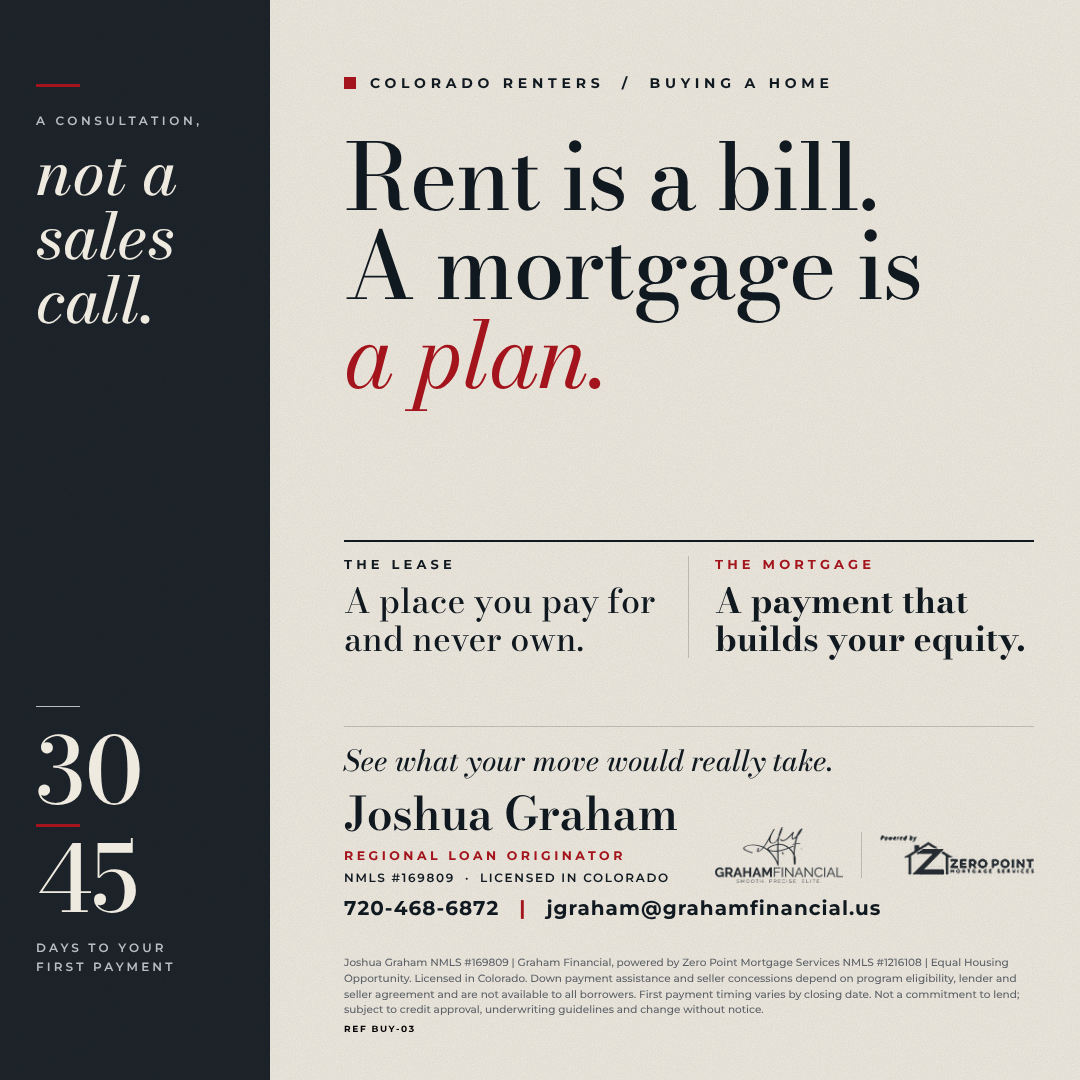
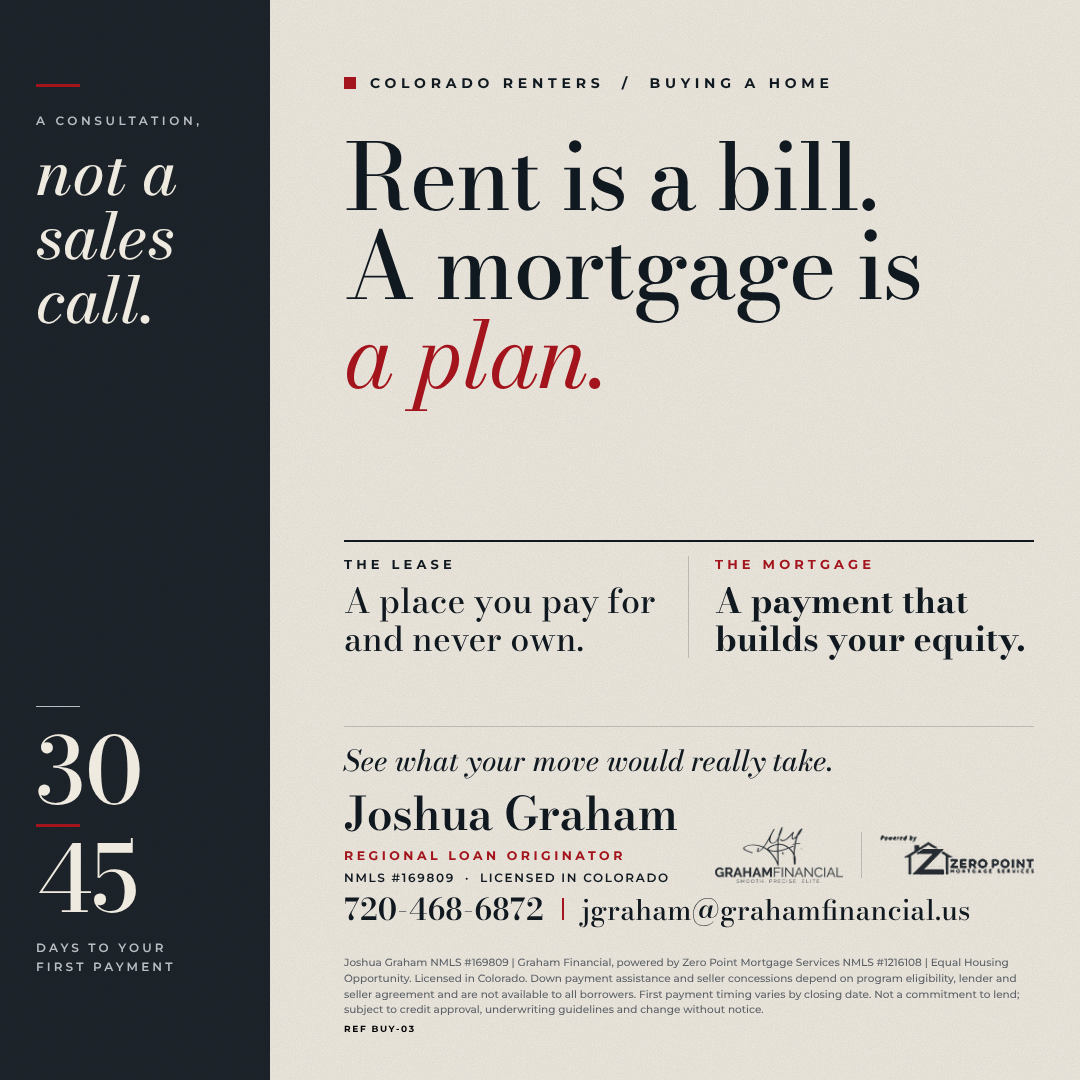
Contact line in serif, baseline-aligned, on all flyers
Claude-Session: https://claude.ai/code/session_01BCcskEaN45pwtrM4t2VKHx

Changed region(s): [[0.3056, 0.825, 0.8861, 0.8556]]

diff --git a/tools/flyers/gen_elite.py b/tools/flyers/gen_elite.py
@@ -131,7 +131,7 @@ def page(ref, c):
 <p style="margin-top:12px;font:700 12.5px M;letter-spacing:.28em;color:{p["accent"]};white-space:nowrap">REGIONAL LOAN ORIGINATOR</p>
 <p style="margin-top:7px;font:600 12px M;letter-spacing:.14em;color:{p["ink"]};white-space:nowrap">NMLS #169809 &nbsp;&middot;&nbsp; LICENSED IN COLORADO</p></div>
 <div style="display:flex;align-items:center;gap:18px;padding-bottom:2px;flex:none"><img src="file://{gf}" style="height:56px;display:block;opacity:.9"><div style="width:1px;height:46px;background:{p["ink"]}33"></div><img src="file://{zp}" style="height:40px;display:block;opacity:.9"></div></div>
-<p style="position:absolute;left:74px;top:896px;font:700 20px M;letter-spacing:.05em;color:{p["ink"]};white-space:nowrap">720-468-6872 <span style="color:{p["accent"]}">&nbsp;&nbsp;|&nbsp;&nbsp;</span> jgraham@grahamfinancial.us</p>
+<div style="position:absolute;left:74px;top:894px;display:flex;align-items:baseline;gap:18px;white-space:nowrap"><p style="font:600 30px/1 B;color:{p["ink"]};letter-spacing:.01em">720-468-6872</p><div style="width:2px;height:22px;background:{p["accent"]};align-self:center"></div><p style="font:500 28px/1 B;color:{p["ink"]}">jgraham@grahamfinancial.us</p></div>
 <p style="position:absolute;left:74px;width:690px;bottom:46px;font:500 10.5px/1.5 M;color:{p["muted"]}">{c["foot"]}<span style="display:block;margin-top:5px;font:700 9px M;letter-spacing:.18em;color:#000">REF {ref}</span></p>
 </div></body></html>'''
     if c.get("side") == "left":
